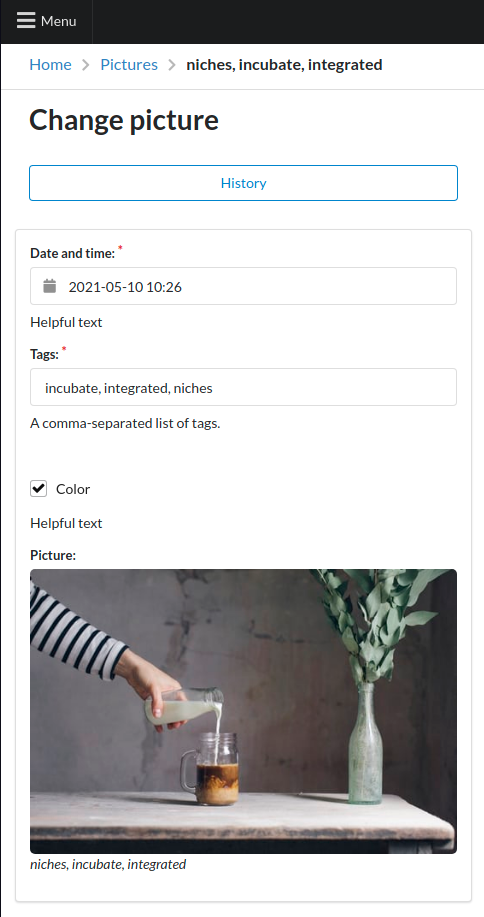
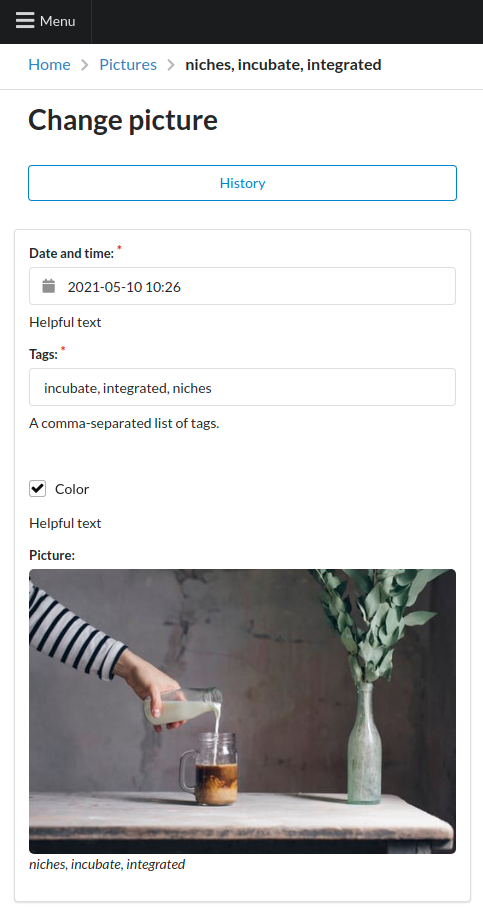
adjust screenshots

diff --git a/README.md b/README.md
@@ -8,6 +8,8 @@ Semantic UI looks professional, and has great JavaScript components.
 
 Log in to the demo with username `demo` and password `demo`: https://semantic-admin.com
 
+Documentation is on [GitHub Pages](https://globophobe.github.io/django-semantic-admin/).
+
 Why?
 ----
 * Looks professional, with a nice sidebar.
